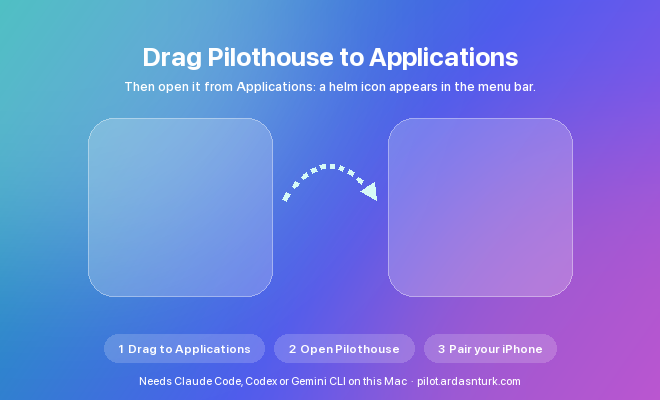
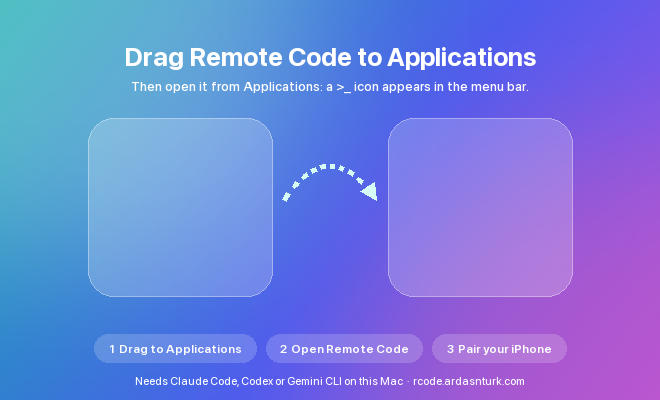
Version 1.2.0: release notes; website moves to rcode.ardasnturk.com

Changed region(s): [[0.1818, 0.12, 0.8182, 0.24], [0.1212, 0.84, 0.8788, 0.93], [0.2121, 0.93, 0.7879, 0.96]]

diff --git a/PilothouseiOS/Views/Onboarding/WelcomeView.swift b/PilothouseiOS/Views/Onboarding/WelcomeView.swift
@@ -33,7 +33,7 @@ struct WelcomeView: View {
                         StepRow(number: 1, title: "Install Remote Code on your Mac", detail: "Download it from the website and open it. A >_ icon appears in the menu bar at the top of the screen.")
                         StepRow(number: 2, title: "Have an agent ready on the Mac", detail: "Claude Code, Codex or Gemini CLI, installed and signed in once in Terminal. The Mac app tells you if something is missing.")
                         StepRow(number: 3, title: "Pair on the same Wi-Fi", detail: "On the Mac, click the >_ icon, choose “Pair iPhone or iPad…”, then tap the button below and scan the code.")
-                        Link(destination: URL(string: "https://pilot.ardasnturk.com") ?? URL(fileURLWithPath: "/")) {
+                        Link(destination: URL(string: "https://rcode.ardasnturk.com") ?? URL(fileURLWithPath: "/")) {
                             Label("Get Remote Code for Mac", systemImage: "arrow.up.right.square")
                                 .font(.callout.weight(.medium))
                         }

diff --git a/PilothouseMac/Views/GetIPhoneAppView.swift b/PilothouseMac/Views/GetIPhoneAppView.swift
@@ -5,7 +5,7 @@ import SwiftUI
 enum AppLinks {
     /// Public TestFlight link of the iPhone and iPad app.
     static let testFlight = URL(string: "https://testflight.apple.com/join/6CE4VRRE")!
-    static let website = URL(string: "https://pilot.ardasnturk.com")!
+    static let website = URL(string: "https://rcode.ardasnturk.com")!
 }
 
 /// Whether the public TestFlight link takes new testers yet. Until Apple's

diff --git a/scripts/dmg/make-background.py b/scripts/dmg/make-background.py
@@ -103,7 +103,7 @@ def draw(scale):
         d.text((x + 14 * scale, y + 7 * scale), text, font=pill, fill=(255, 255, 255, 240))
         x += width + gap
 
-    foot = "Needs Claude Code, Codex or Gemini CLI on this Mac  ·  pilot.ardasnturk.com"
+    foot = "Needs Claude Code, Codex or Gemini CLI on this Mac  ·  rcode.ardasnturk.com"
     tiny = font(11 * scale, 450)
     fw = d.textlength(foot, font=tiny)
     d.text(((w - fw) / 2, (HEIGHT - 26) * scale), foot, font=tiny, fill=(255, 255, 255, 180))

diff --git a/docs/release-notes/1.2.0.md b/docs/release-notes/1.2.0.md
@@ -1,0 +1,43 @@
+## Remote Code 1.2.0
+
+### Pilothouse is now Remote Code
+
+New name, new icon (a `>_` prompt with a signal) and a new home:
+[github.com/ardasnturk/remote-code](https://github.com/ardasnturk/remote-code)
+and [rcode.ardasnturk.com](https://rcode.ardasnturk.com). Nothing has to be set
+up again: your paired devices, settings, chats and the Mac's keychain identity
+carry over. The Mac app is now called **Remote Code.app**; after the next
+update it replaces Pilothouse.app in your Applications folder.
+
+### Added
+
+* **Allow everything in a chat.** The permission sheet has a new **Allow
+  everything in this chat** button, and the chat's menu a **Permissions**
+  picker. A chat's permission mode can now change at any time, even while a
+  reply runs. "Allow bypass permissions" still has to be turned on in the
+  Mac's settings first (Settings → Security).
+
+### Fixed
+
+* **Open at login.** The switch in Settings → General could look switched off
+  while it was on. It now shows the real state, says when macOS waits for your
+  approval in Login Items, and shows errors right there.
+* **Weekly summary in your language.** It now follows the language the iPhone
+  or iPad app is shown in instead of the Mac's, and no longer mixes languages.
+
+The permission picker and the summary language need the new Mac app and the
+new iPhone or iPad app.
+
+### Install
+
+Update the iPhone or iPad app through TestFlight. On the Mac, use
+**Settings → Updates → Install and Relaunch**, download
+`RemoteCode-1.2.0.dmg` below, or with Homebrew:
+
+```sh
+brew update && brew upgrade --cask remote-code
+```
+
+(The `pilothouse` cask moves to `remote-code` by itself.)
+
+The full list of changes is in [CHANGELOG.md](https://github.com/ardasnturk/remote-code/blob/main/CHANGELOG.md).

diff --git a/CHANGELOG.md b/CHANGELOG.md
@@ -6,9 +6,12 @@ All notable changes to Remote Code (called Pilothouse up to 1.1.2) are recorded 
 
 ## [Unreleased]
 
+## [1.2.0] — 2026-10-25
+
 ### Changed
 - Pilothouse is now **Remote Code**: new name, new icon (a `>_` prompt with a
-  signal) and a new repository, `ardasnturk/remote-code`. Pairings, settings,
+  signal), a new repository, `ardasnturk/remote-code`, and a new website,
+  rcode.ardasnturk.com. Pairings, settings,
   session logs and the keychain identity carry over: the bundle identifiers,
   the pairing protocol and the data folder keep their old names. The Mac app
   is now `Remote Code.app`; copies from before the rename update to it through
@@ -22,6 +25,8 @@ All notable changes to Remote Code (called Pilothouse up to 1.1.2) are recorded 
   Items for it, and errors now show in Settings instead of the menu.
 
 ## [1.1.2] — 2026-10-25
+
+The Mac app of 1.1.2 was never published; its changes ship in 1.2.0.
 
 ### Added
 - "Allow everything in this chat" on the permission sheet, and a Permissions
@@ -136,7 +141,8 @@ coding-agent CLIs on your Mac.
 - The Mac menu panel collapsed to its header on macOS 27.
 - Diff statistics counted `---`/`+++` file headers as changed lines.
 
-[Unreleased]: https://github.com/ardasnturk/remote-code/compare/v1.1.1...HEAD
+[Unreleased]: https://github.com/ardasnturk/remote-code/compare/v1.2.0...HEAD
+[1.2.0]: https://github.com/ardasnturk/remote-code/compare/v1.1.1...v1.2.0
 [1.1.1]: https://github.com/ardasnturk/remote-code/compare/v1.1.0...v1.1.1
 [1.1.0]: https://github.com/ardasnturk/remote-code/compare/v1.0.1...v1.1.0
 [1.0.1]: https://github.com/ardasnturk/remote-code/compare/v1.0.0...v1.0.1

diff --git a/README.tr.md b/README.tr.md
@@ -11,7 +11,7 @@
   <a href="LICENSE"><img alt="MIT Lisansı" src="https://img.shields.io/badge/license-MIT-green"></a>
 </p>
 
-<p align="center"><a href="https://pilot.ardasnturk.com">Web sitesi</a> · <a href="README.md">English</a> · <b>Türkçe</b></p>
+<p align="center"><a href="https://rcode.ardasnturk.com">Web sitesi</a> · <a href="README.md">English</a> · <b>Türkçe</b></p>
 
 > **Remote Code; Claude Code, Codex ve Gemini CLI ile çalışır.** Bağımsız, açık
 > kaynaklı bir projedir; **Anthropic, OpenAI veya Google ile bağlantılı

diff --git a/README.md b/README.md
@@ -11,7 +11,7 @@
   <a href="LICENSE"><img alt="MIT License" src="https://img.shields.io/badge/license-MIT-green"></a>
 </p>
 
-<p align="center"><a href="https://pilot.ardasnturk.com">Website</a> · <b>English</b> · <a href="README.tr.md">Türkçe</a></p>
+<p align="center"><a href="https://rcode.ardasnturk.com">Website</a> · <b>English</b> · <a href="README.tr.md">Türkçe</a></p>
 
 > **Remote Code works with Claude Code, Codex and Gemini CLI.** It is an
 > independent open-source project and is **not affiliated with, endorsed by or
